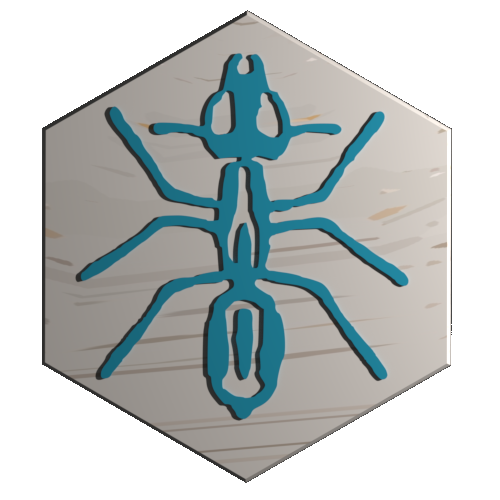
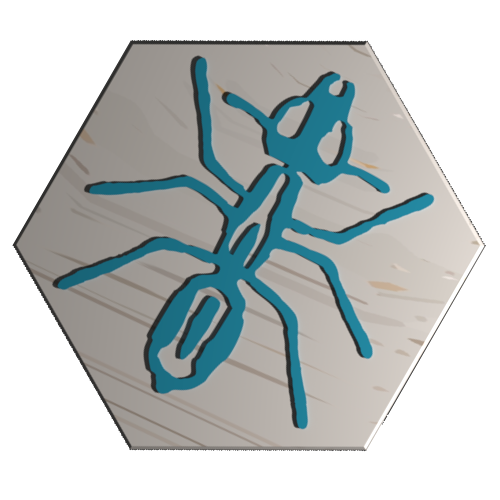
Rotation des pieces de 30°

diff --git a/TheHives/src/hive/vue/InterfacePlateau.java b/TheHives/src/hive/vue/InterfacePlateau.java
@@ -39,8 +39,8 @@ public class InterfacePlateau extends Parent {
         pane.prefWidthProperty().bind(stage.widthProperty());
         controller = new GameController(DefaultGame.get(new HumanDecision(), new HumanDecision()));
 
-        InterfacePlateauMain mainGauche = new InterfacePlateauMain(col, joueur1, c, prop, controller,this, TeamColor.WHITE);
-        InterfacePlateauMain mainDroite = new InterfacePlateauMain(col, joueur2, c, prop, controller, this,TeamColor.BLACK);
+        InterfacePlateauMain mainGauche = new InterfacePlateauMain(col, joueur1, c, pane.heightProperty(), controller,this, TeamColor.WHITE);
+        InterfacePlateauMain mainDroite = new InterfacePlateauMain(col, joueur2, c, pane.heightProperty(), controller, this,TeamColor.BLACK);
 
         StackPane centerPane = new StackPane();
         ScrollPane p = new ScrollPane();

diff --git a/TheHives/src/hive/vue/InterfaceRuche.java b/TheHives/src/hive/vue/InterfaceRuche.java
@@ -55,12 +55,12 @@ public class InterfaceRuche extends Parent {
                 Vector2i pos = new Vector2i(x, y);
 
                 InterfaceComb cell = new InterfaceComb(c, longueurPion);
-                cell.setLayoutY(y * (longueurPion + h));
+                cell.setLayoutX(x * (longueurPion + h));
 
-                if (y % 2 == 0) {
-                    cell.setLayoutX((x * 2 * center) + center);
+                if (x % 2 == 0) {
+                    cell.setLayoutY((y * 2 * center) + center);
                 } else {
-                    cell.setLayoutX(x * 2 * center);
+                    cell.setLayoutY(y * 2 * center);
                 }
                 tab.setAt(pos, cell);
                 this.getChildren().add(tab.getAt(pos));

diff --git a/TheHives/src/hive/vue/InterfacePion.java b/TheHives/src/hive/vue/InterfacePion.java
@@ -65,14 +65,12 @@ public class InterfacePion extends Parent {
 
         //Adding coordinates to the polygon 
         hexagon.getPoints().addAll(new Double[]{
-            center, 0.0,
-            2 * center, hauteur,
-            2 * center, hauteur + side,
-            center, side * 2,
-            0.0, side + hauteur,
-            0.0, hauteur
-
-        });
+            0.0, center,
+            hauteur, 2 * center,
+            hauteur + side, 2 * center,
+            side * 2, center,
+            side + hauteur, 0.0,
+            hauteur, 0.0,});
         return hexagon;
     }
 
